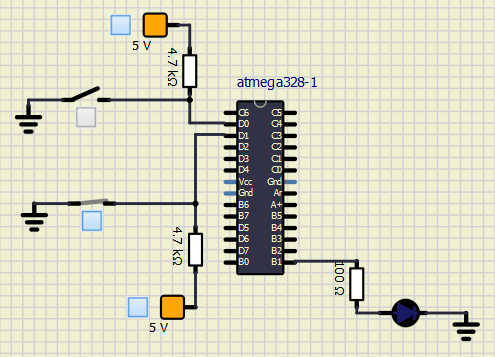
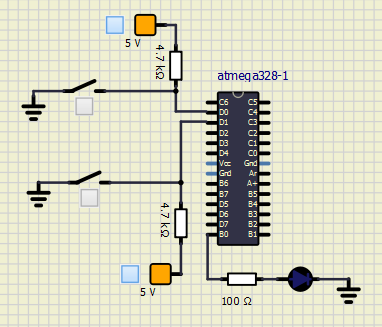
update

diff --git a/src/Timer_PWM.c b/src/Timer_PWM.c
@@ -1,0 +1,39 @@
+/**
+ * @file Timer_PWM.c
+ * @author Praveen Kumar G
+ * @brief Timers and Couters
+ * @version 0.1
+ * @date 2021-04-30
+ * 
+ * @copyright Copyright (c) 2021
+ * 
+ */
+#include "user_utils.h"
+#include "AVR.h"
+#include "project_config.h"
+
+void Timer_PWM(){
+
+    TCCR1A|=(1<<COM1A1)|(1<<WGM11)|(WGM10); // Timer1 with fast PWM mode
+    TCCR1B|=(1<<WGM12)|(1<<CS11)|(1<<CS10);  // prescalar 64
+    DDRB|=(1<<PB1);
+
+    while(1){
+
+        OCR1A=10;
+        _delay_ms(200);
+        OCR1A=50;
+        _delay_ms(200);
+        OCR1A=100;
+        _delay_ms(200);
+        OCR1A=150;
+        _delay_ms(200);
+        OCR1A=200;
+        _delay_ms(200);
+        OCR1A=250;
+        _delay_ms(200);
+    }
+
+}
+
+

diff --git a/src/control.c b/src/control.c
@@ -18,17 +18,17 @@
 int control(void){
 	
 	//port configure
-    DDRB |=(1<<PB1);
+    DDRB |=(1<<PB0);
     DDRD &=~(1<<PD0);
     DDRD &=~(1<<PD1);
 
 
     while(1){
             if( !(PIND&(1<<PD0)) && !(PIND&(1<<PD1))  ){
-              PORTB |=(1<<PB1);
+              PORTB |=(1<<PB0);
             }
             else{
-                PORTB &=~(1<<PB1);
+                PORTB &=~(1<<PB0);
             }
 
     }

diff --git a/project_main.c b/project_main.c
@@ -1,13 +1,23 @@
 #include "user_utils.h"
 #include "ADC.h"
+
+
+unsigned volatile overflow;
+
 int main(void){
 
-    /* Activity 2*/
+   
+   /* Activity 1*/
+     control();
+    /* Activity 2
     initADC();
     uint16_t temperature;
     while(1){
         temperature =readADC(0);
         _delay_ms(200);
     }
-    return 0;
+  */
+    /*Activity 3
+   Timer_PWM();*/
+   return 0;
 }
